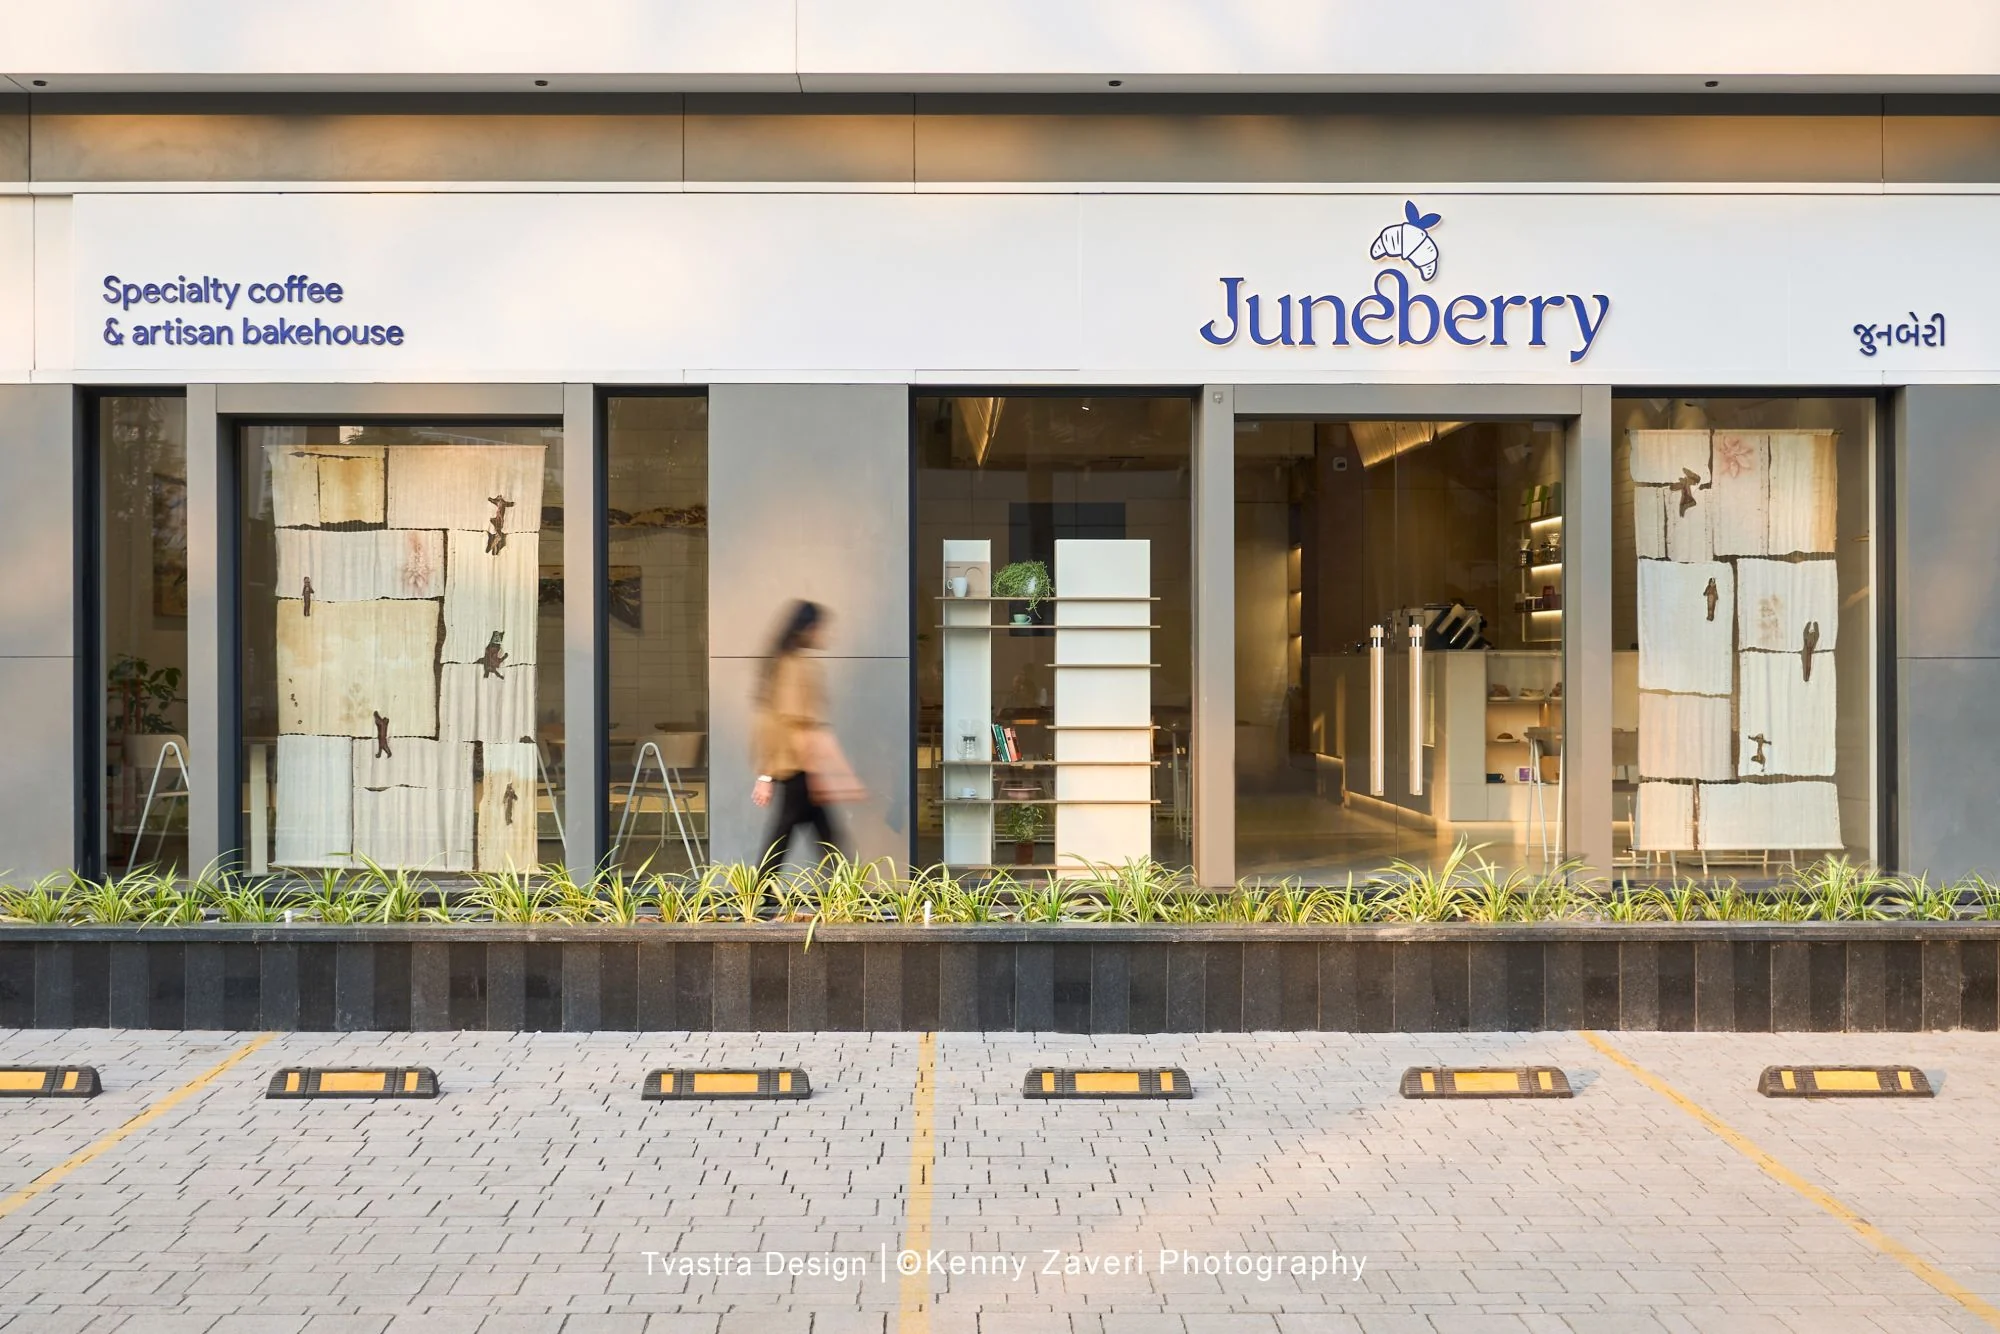
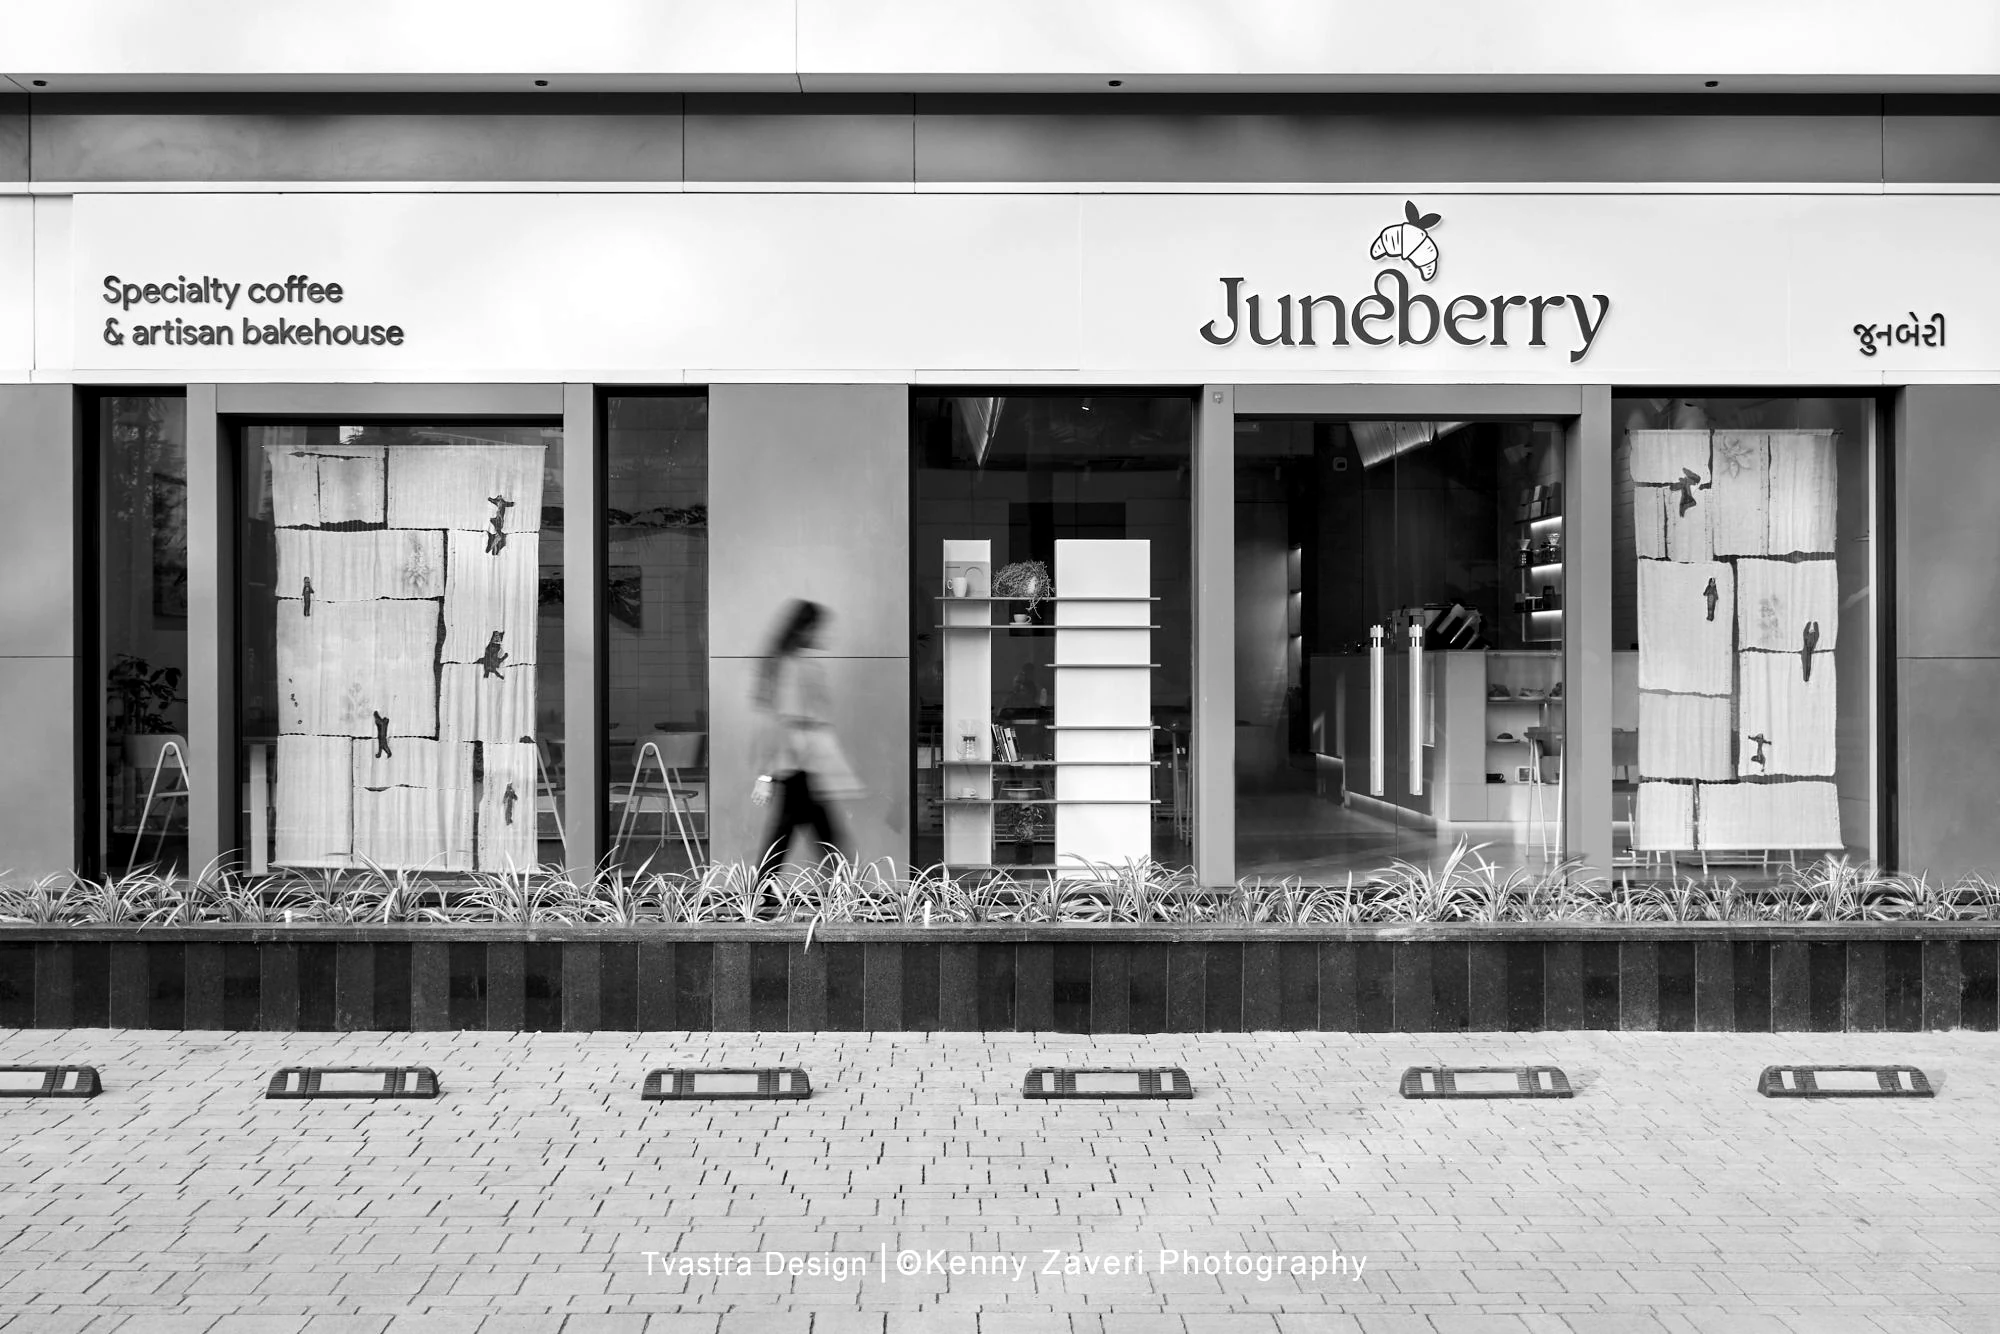
Juneberry: add two Moments photos; convert hero title image to B&W

diff --git a/juneberry.html b/juneberry.html
@@ -7,7 +7,7 @@
 <meta name="description" content="Juneberry, a specialty coffee and artisan bakehouse in Surat, pastel micro-cement, oak craft and handmade folk-art, by Tvastra Design LLP." />
 <link rel="icon" href="assets/favicon.svg" type="image/svg+xml" />
 <link rel="preconnect" href="https://fonts.googleapis.com" /><link rel="preconnect" href="https://fonts.gstatic.com" crossorigin /><link href="https://fonts.googleapis.com/css2?family=Cormorant+Garamond:wght@400;500;600&family=Quicksand:wght@300;400;500;600;700&display=swap" rel="stylesheet" />
-<link rel="stylesheet" href="css/style.css?v=8d5e5faa" />
+<link rel="stylesheet" href="css/style.css?v=d78f0733" />
 </head>
 <body>
 <header class="site-header">
@@ -116,6 +116,10 @@
       <figure class="pd-detail"><img src="assets/projects/juneberry/coffee-window.webp" alt="Juneberry, a guest by the window with a khadi textile hanging" loading="lazy" /></figure>
       <figure class="pd-detail"><img src="assets/projects/juneberry/seating-row.webp" alt="Juneberry, a row of oak chairs beneath the relief artwork" loading="lazy" /></figure>
       <figure class="pd-detail"><img src="assets/projects/juneberry/reading.webp" alt="Juneberry, a guest reading beneath a framed art panel" loading="lazy" /></figure>
+    </div>
+    <div class="pd-duo reveal">
+      <figure class="pd-detail"><img src="assets/projects/juneberry/mountain-wall.webp" alt="Juneberry, mountain-relief artworks above the banquette, with the counter beyond" loading="lazy" /></figure>
+      <figure class="pd-detail"><img src="assets/projects/juneberry/reading-wide.webp" alt="Juneberry, a guest reading by the window beside the retail shelving" loading="lazy" /></figure>
     </div>
   </div>
 </section>

diff --git a/build.js b/build.js
@@ -1032,6 +1032,10 @@ const juneberry = `
       <figure class="pd-detail"><img src="${JIMG}seating-row.webp" alt="Juneberry, a row of oak chairs beneath the relief artwork" loading="lazy" /></figure>
       <figure class="pd-detail"><img src="${JIMG}reading.webp" alt="Juneberry, a guest reading beneath a framed art panel" loading="lazy" /></figure>
     </div>
+    <div class="pd-duo reveal">
+      <figure class="pd-detail"><img src="${JIMG}mountain-wall.webp" alt="Juneberry, mountain-relief artworks above the banquette, with the counter beyond" loading="lazy" /></figure>
+      <figure class="pd-detail"><img src="${JIMG}reading-wide.webp" alt="Juneberry, a guest reading by the window beside the retail shelving" loading="lazy" /></figure>
+    </div>
   </div>
 </section>
 

diff --git a/index.html b/index.html
@@ -7,7 +7,7 @@
 <meta name="description" content="Tvastra Design LLP, a 29-year architecture, interior and product design practice in Surat blending historical elegance with contemporary craft." />
 <link rel="icon" href="assets/favicon.svg" type="image/svg+xml" />
 <link rel="preconnect" href="https://fonts.googleapis.com" /><link rel="preconnect" href="https://fonts.gstatic.com" crossorigin /><link href="https://fonts.googleapis.com/css2?family=Cormorant+Garamond:wght@400;500;600&family=Quicksand:wght@300;400;500;600;700&display=swap" rel="stylesheet" />
-<link rel="stylesheet" href="css/style.css?v=8d5e5faa" />
+<link rel="stylesheet" href="css/style.css?v=d78f0733" />
 </head>
 <body>
 <header class="site-header on-home">

diff --git a/css/style.css b/css/style.css
@@ -736,6 +736,9 @@ details[open] > .role__head .role__toggle { transform: rotate(45deg); background
 .pd-detail img { width: 100%; height: auto; display: block; border-radius: 2px; }
 @media (max-width: 820px) { .pd-details { grid-template-columns: 1fr 1fr; } }
 @media (max-width: 520px) { .pd-details { grid-template-columns: 1fr; } }
+.pd-duo { display: grid; grid-template-columns: 1fr 1fr; gap: clamp(12px, 1.5vw, 20px); margin-top: clamp(12px, 1.5vw, 20px); }
+.pd-duo .pd-detail img { aspect-ratio: 3 / 2; object-fit: cover; }
+@media (max-width: 520px) { .pd-duo { grid-template-columns: 1fr; } }
 
 /* Full uncropped 3D-elevation renders — three side by side */
 .pd-showcase__sub { margin-top: clamp(58px, 7vw, 104px); }

diff --git a/about.html b/about.html
@@ -7,7 +7,7 @@
 <meta name="description" content="About Tvastra Design LLP, a 29-year architecture, interior and product design practice; our philosophy, vision and principles." />
 <link rel="icon" href="assets/favicon.svg" type="image/svg+xml" />
 <link rel="preconnect" href="https://fonts.googleapis.com" /><link rel="preconnect" href="https://fonts.gstatic.com" crossorigin /><link href="https://fonts.googleapis.com/css2?family=Cormorant+Garamond:wght@400;500;600&family=Quicksand:wght@300;400;500;600;700&display=swap" rel="stylesheet" />
-<link rel="stylesheet" href="css/style.css?v=8d5e5faa" />
+<link rel="stylesheet" href="css/style.css?v=d78f0733" />
 </head>
 <body>
 <header class="site-header solid on-light">

diff --git a/asamvrta.html b/asamvrta.html
@@ -7,7 +7,7 @@
 <meta name="description" content="Asaṁvṛta, a contemporary stone-and-brick apartment building with deep balconies and a rooftop pavilion in Surat by Tvastra Design LLP." />
 <link rel="icon" href="assets/favicon.svg" type="image/svg+xml" />
 <link rel="preconnect" href="https://fonts.googleapis.com" /><link rel="preconnect" href="https://fonts.gstatic.com" crossorigin /><link href="https://fonts.googleapis.com/css2?family=Cormorant+Garamond:wght@400;500;600&family=Quicksand:wght@300;400;500;600;700&display=swap" rel="stylesheet" />
-<link rel="stylesheet" href="css/style.css?v=8d5e5faa" />
+<link rel="stylesheet" href="css/style.css?v=d78f0733" />
 </head>
 <body>
 <header class="site-header">

diff --git a/founders-mind.html b/founders-mind.html
@@ -7,7 +7,7 @@
 <meta name="description" content="Inside the founder's mind, designing since 1995 across architecture, interiors, product design, turn-key projects and project management." />
 <link rel="icon" href="assets/favicon.svg" type="image/svg+xml" />
 <link rel="preconnect" href="https://fonts.googleapis.com" /><link rel="preconnect" href="https://fonts.gstatic.com" crossorigin /><link href="https://fonts.googleapis.com/css2?family=Cormorant+Garamond:wght@400;500;600&family=Quicksand:wght@300;400;500;600;700&display=swap" rel="stylesheet" />
-<link rel="stylesheet" href="css/style.css?v=8d5e5faa" />
+<link rel="stylesheet" href="css/style.css?v=d78f0733" />
 </head>
 <body>
 <header class="site-header">

diff --git a/jalika.html b/jalika.html
@@ -7,7 +7,7 @@
 <meta name="description" content="Jālikā, a terracotta-and-concrete family home with vertical gardens and timber-jaali screens in Surat by Tvastra Design LLP." />
 <link rel="icon" href="assets/favicon.svg" type="image/svg+xml" />
 <link rel="preconnect" href="https://fonts.googleapis.com" /><link rel="preconnect" href="https://fonts.gstatic.com" crossorigin /><link href="https://fonts.googleapis.com/css2?family=Cormorant+Garamond:wght@400;500;600&family=Quicksand:wght@300;400;500;600;700&display=swap" rel="stylesheet" />
-<link rel="stylesheet" href="css/style.css?v=8d5e5faa" />
+<link rel="stylesheet" href="css/style.css?v=d78f0733" />
 </head>
 <body>
 <header class="site-header">

diff --git a/vallabh-nivas.html b/vallabh-nivas.html
@@ -7,7 +7,7 @@
 <meta name="description" content="Vallabh Nivas, a concrete-and-timber family home with planted balconies and cascading greenery in Surat by Tvastra Design LLP." />
 <link rel="icon" href="assets/favicon.svg" type="image/svg+xml" />
 <link rel="preconnect" href="https://fonts.googleapis.com" /><link rel="preconnect" href="https://fonts.gstatic.com" crossorigin /><link href="https://fonts.googleapis.com/css2?family=Cormorant+Garamond:wght@400;500;600&family=Quicksand:wght@300;400;500;600;700&display=swap" rel="stylesheet" />
-<link rel="stylesheet" href="css/style.css?v=8d5e5faa" />
+<link rel="stylesheet" href="css/style.css?v=d78f0733" />
 </head>
 <body>
 <header class="site-header">

diff --git a/careers.html b/careers.html
@@ -7,7 +7,7 @@
 <meta name="description" content="Careers at Tvastra Design LLP. Join a hands-on architecture, interior and product design studio in Surat." />
 <link rel="icon" href="assets/favicon.svg" type="image/svg+xml" />
 <link rel="preconnect" href="https://fonts.googleapis.com" /><link rel="preconnect" href="https://fonts.gstatic.com" crossorigin /><link href="https://fonts.googleapis.com/css2?family=Cormorant+Garamond:wght@400;500;600&family=Quicksand:wght@300;400;500;600;700&display=swap" rel="stylesheet" />
-<link rel="stylesheet" href="css/style.css?v=8d5e5faa" />
+<link rel="stylesheet" href="css/style.css?v=d78f0733" />
 </head>
 <body>
 <header class="site-header solid on-light">

diff --git a/valuka.html b/valuka.html
@@ -7,7 +7,7 @@
 <meta name="description" content="Vālukā, a warm earthen courtyard home in clay render and rammed-earth-textured stone in Surat by Tvastra Design LLP." />
 <link rel="icon" href="assets/favicon.svg" type="image/svg+xml" />
 <link rel="preconnect" href="https://fonts.googleapis.com" /><link rel="preconnect" href="https://fonts.gstatic.com" crossorigin /><link href="https://fonts.googleapis.com/css2?family=Cormorant+Garamond:wght@400;500;600&family=Quicksand:wght@300;400;500;600;700&display=swap" rel="stylesheet" />
-<link rel="stylesheet" href="css/style.css?v=8d5e5faa" />
+<link rel="stylesheet" href="css/style.css?v=d78f0733" />
 </head>
 <body>
 <header class="site-header">

diff --git a/rju.html b/rju.html
@@ -7,7 +7,7 @@
 <meta name="description" content="Ṛju, a green, terraced residence with cascading planting and a brick-jaali screen in Surat by Tvastra Design LLP." />
 <link rel="icon" href="assets/favicon.svg" type="image/svg+xml" />
 <link rel="preconnect" href="https://fonts.googleapis.com" /><link rel="preconnect" href="https://fonts.gstatic.com" crossorigin /><link href="https://fonts.googleapis.com/css2?family=Cormorant+Garamond:wght@400;500;600&family=Quicksand:wght@300;400;500;600;700&display=swap" rel="stylesheet" />
-<link rel="stylesheet" href="css/style.css?v=8d5e5faa" />
+<link rel="stylesheet" href="css/style.css?v=d78f0733" />
 </head>
 <body>
 <header class="site-header">
